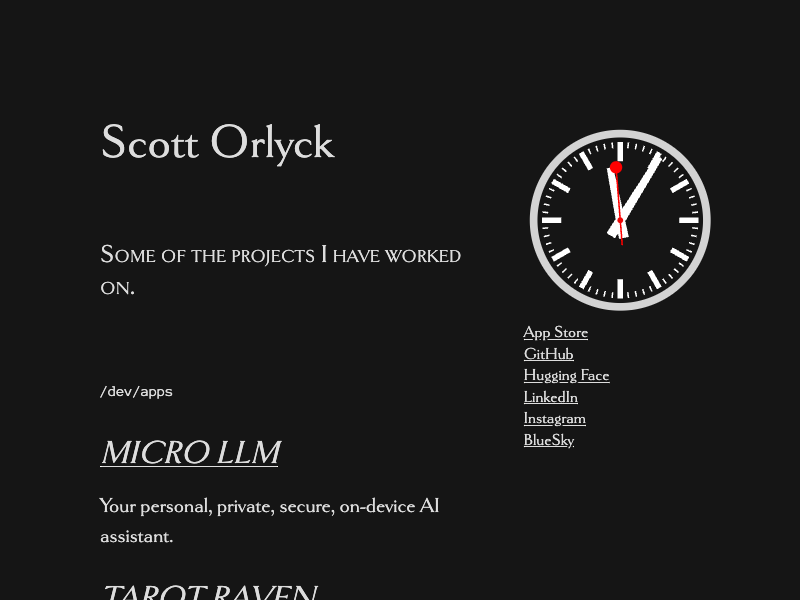
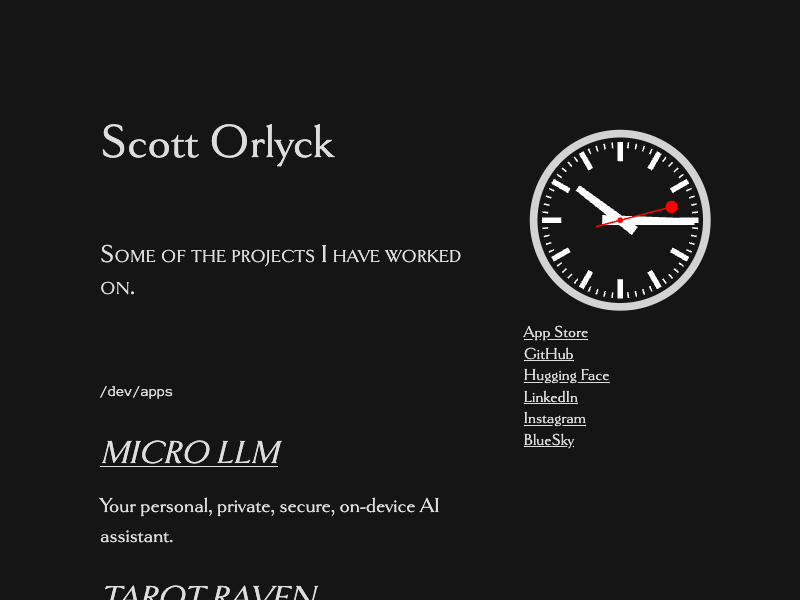
try to fix ssr

Changed region(s): [[0.7188, 0.27, 0.875, 0.42]]

diff --git a/docs/index.html b/docs/index.html
@@ -1,12 +1,11 @@
 <!DOCTYPE html><html lang="en"><head>
         <meta name="viewport" content="width=device-width,initial-scale=1">
         <meta charset="utf-8">
-      
+      <script type="module" crossorigin="" src="/assets/entry-DOY9Dm_Q.js"></script>
       <link rel="modulepreload" crossorigin="" href="/assets/vendor-CE8GFQpL.js">
-      <link rel="modulepreload" crossorigin="" href="/assets/clock-CrR0Dlin.js">
       <link rel="stylesheet" crossorigin="" href="/assets/index-g4Ej_i3O.css">
     <link rel="icon" type="image/x-icon" href="https://raw.githubusercontent.com/scottorly/scottorly.github.io/main/fav.png"><meta name="Description" content="Scott Orlyck's website."><meta name="twitter:title" content="Scott Orlyck"><meta name="twitter:description" content="Scott Orlyck's website."><meta name="twitter:image" content="https://raw.githubusercontent.com/scottorly/scottorly.github.io/main/thumbnail.png"><meta name="twitter:card" content="summary_large_image"><meta name="twitter:site" content="https://scottorly.github.io"><meta name="twitter:creator" content="@orlyck"><meta property="og:url" content="https://scottorly.github.io"><meta property="og:title" content="Scott Orlyck"><meta property="og:description" content="Scott Orlyck's website."><meta property="og:image" content="https://raw.githubusercontent.com/scottorly/scottorly.github.io/main/thumbnail.png"><meta property="og:image:secure" content="https://raw.githubusercontent.com/scottorly/scottorly.github.io/main/thumbnail.png"><meta name="google-site-verification" content="lUY1nvzQq0C_4-rrW4zS6qy_ib3HK3MyfS-0Jpf_cvo"><script async="true" defer="true" data-domain="scottorly.github.io" src="https://plausible.io/js/plausible.js"></script></head>
     <body>
     
 
-<article><section><p><label for="links" class="margin-toggle">⊕</label><input type="checkbox" id="links" class="margin-toggle"><span class="marginnote"><svg width="240" height="240" viewBox="50 50 500 500" style="max-width:100%;height:auto;"><g transform="translate(300,300)"><circle id="face" r="225" stroke-width="20" fill="none" stroke="lightgray"></circle><g id="tick-major" transform="rotate(0)"><line y1="-203" y2="-153" stroke-width="14"></line></g><g id="tick-major" transform="rotate(30)"><line y1="-203" y2="-153" stroke-width="14"></line></g><g id="tick-major" transform="rotate(60)"><line y1="-203" y2="-153" stroke-width="14"></line></g><g id="tick-major" transform="rotate(90)"><line y1="-203" y2="-153" stroke-width="14"></line></g><g id="tick-major" transform="rotate(120)"><line y1="-203" y2="-153" stroke-width="14"></line></g><g id="tick-major" transform="rotate(150)"><line y1="-203" y2="-153" stroke-width="14"></line></g><g id="tick-major" transform="rotate(180)"><line y1="-203" y2="-153" stroke-width="14"></line></g><g id="tick-major" transform="rotate(210)"><line y1="-203" y2="-153" stroke-width="14"></line></g><g id="tick-major" transform="rotate(240)"><line y1="-203" y2="-153" stroke-width="14"></line></g><g id="tick-major" transform="rotate(270)"><line y1="-203" y2="-153" stroke-width="14"></line></g><g id="tick-major" transform="rotate(300)"><line y1="-203" y2="-153" stroke-width="14"></line></g><g id="tick-major" transform="rotate(330)"><line y1="-203" y2="-153" stroke-width="14"></line></g><g id="tick-minor" transform="rotate(6)"><line y1="-203" y2="-188" stroke-width="4"></line></g><g id="tick-minor" transform="rotate(12)"><line y1="-203" y2="-188" stroke-width="4"></line></g><g id="tick-minor" transform="rotate(18)"><line y1="-203" y2="-188" stroke-width="4"></line></g><g id="tick-minor" transform="rotate(24)"><line y1="-203" y2="-188" stroke-width="4"></line></g><g id="tick-minor" transform="rotate(36)"><line y1="-203" y2="-188" stroke-width="4"></line></g><g id="tick-minor" transform="rotate(42)"><line y1="-203" y2="-188" stroke-width="4"></line></g><g id="tick-minor" transform="rotate(48)"><line y1="-203" y2="-188" stroke-width="4"></line></g><g id="tick-minor" transform="rotate(54)"><line y1="-203" y2="-188" stroke-width="4"></line></g><g id="tick-minor" transform="rotate(66)"><line y1="-203" y2="-188" stroke-width="4"></line></g><g id="tick-minor" transform="rotate(72)"><line y1="-203" y2="-188" stroke-width="4"></line></g><g id="tick-minor" transform="rotate(78)"><line y1="-203" y2="-188" stroke-width="4"></line></g><g id="tick-minor" transform="rotate(84)"><line y1="-203" y2="-188" stroke-width="4"></line></g><g id="tick-minor" transform="rotate(96)"><line y1="-203" y2="-188" stroke-width="4"></line></g><g id="tick-minor" transform="rotate(102)"><line y1="-203" y2="-188" stroke-width="4"></line></g><g id="tick-minor" transform="rotate(108)"><line y1="-203" y2="-188" stroke-width="4"></line></g><g id="tick-minor" transform="rotate(114)"><line y1="-203" y2="-188" stroke-width="4"></line></g><g id="tick-minor" transform="rotate(126)"><line y1="-203" y2="-188" stroke-width="4"></line></g><g id="tick-minor" transform="rotate(132)"><line y1="-203" y2="-188" stroke-width="4"></line></g><g id="tick-minor" transform="rotate(138)"><line y1="-203" y2="-188" stroke-width="4"></line></g><g id="tick-minor" transform="rotate(144)"><line y1="-203" y2="-188" stroke-width="4"></line></g><g id="tick-minor" transform="rotate(156)"><line y1="-203" y2="-188" stroke-width="4"></line></g><g id="tick-minor" transform="rotate(162)"><line y1="-203" y2="-188" stroke-width="4"></line></g><g id="tick-minor" transform="rotate(168)"><line y1="-203" y2="-188" stroke-width="4"></line></g><g id="tick-minor" transform="rotate(174)"><line y1="-203" y2="-188" stroke-width="4"></line></g><g id="tick-minor" transform="rotate(186)"><line y1="-203" y2="-188" stroke-width="4"></line></g><g id="tick-minor" transform="rotate(192)"><line y1="-203" y2="-188" stroke-width="4"></line></g><g id="tick-minor" transform="rotate(198)"><line y1="-203" y2="-188" stroke-width="4"></line></g><g id="tick-minor" transform="rotate(204)"><line y1="-203" y2="-188" stroke-width="4"></line></g><g id="tick-minor" transform="rotate(216)"><line y1="-203" y2="-188" stroke-width="4"></line></g><g id="tick-minor" transform="rotate(222)"><line y1="-203" y2="-188" stroke-width="4"></line></g><g id="tick-minor" transform="rotate(228)"><line y1="-203" y2="-188" stroke-width="4"></line></g><g id="tick-minor" transform="rotate(234)"><line y1="-203" y2="-188" stroke-width="4"></line></g><g id="tick-minor" transform="rotate(246)"><line y1="-203" y2="-188" stroke-width="4"></line></g><g id="tick-minor" transform="rotate(252)"><line y1="-203" y2="-188" stroke-width="4"></line></g><g id="tick-minor" transform="rotate(258)"><line y1="-203" y2="-188" stroke-width="4"></line></g><g id="tick-minor" transform="rotate(264)"><line y1="-203" y2="-188" stroke-width="4"></line></g><g id="tick-minor" transform="rotate(276)"><line y1="-203" y2="-188" stroke-width="4"></line></g><g id="tick-minor" transform="rotate(282)"><line y1="-203" y2="-188" stroke-width="4"></line></g><g id="tick-minor" transform="rotate(288)"><line y1="-203" y2="-188" stroke-width="4"></line></g><g id="tick-minor" transform="rotate(294)"><line y1="-203" y2="-188" stroke-width="4"></line></g><g id="tick-minor" transform="rotate(306)"><line y1="-203" y2="-188" stroke-width="4"></line></g><g id="tick-minor" transform="rotate(312)"><line y1="-203" y2="-188" stroke-width="4"></line></g><g id="tick-minor" transform="rotate(318)"><line y1="-203" y2="-188" stroke-width="4"></line></g><g id="tick-minor" transform="rotate(324)"><line y1="-203" y2="-188" stroke-width="4"></line></g><g id="tick-minor" transform="rotate(336)"><line y1="-203" y2="-188" stroke-width="4"></line></g><g id="tick-minor" transform="rotate(342)"><line y1="-203" y2="-188" stroke-width="4"></line></g><g id="tick-minor" transform="rotate(348)"><line y1="-203" y2="-188" stroke-width="4"></line></g><g id="tick-minor" transform="rotate(354)"><line y1="-203" y2="-188" stroke-width="4"></line></g><g id="hand-hours" transform="rotate(-11.318167091034374)"><path id="hours-path" d="M-13,47h26l-3,-186h-17z"></path></g><g id="hand-minutes" transform="rotate(30.399160509576202) scale(0.9999999999999999,0.9999999999999999)"><path id="minutes-path" d="M-13,47h26l-3,-240h-17z"></path></g><g id="hand-seconds" transform="rotate(-4.439357317553117)"><line y1="65" y2="-138" stroke="red" stroke-width="4"></line><circle cy="-138" r="16" fill="red"></circle><circle r="7.5" fill="red"></circle><circle r="4.5" fill="none" stroke="brown"></circle></g></g></svg> <br><a target="_blank" rel="noreferrer noopener" href="https://apps.apple.com/us/developer/scott-orlyck/id1082162815">App Store</a> <br><a target="_blank" rel="noreferrer noopener" href="https://github.com/scottorly">GitHub</a> <br><a target="_blank" rel="noreferrer noopener" href="https://huggingface.co/scottto">Hugging Face</a> <br><a target="_blank" rel="noreferrer noopener" href="https://linkedin.com/in/scottorlyck">LinkedIn</a> <br><a target="_blank" rel="noreferrer noopener" href="https://www.instagram.com/scottorlyck/">Instagram</a> <br><a target="_blank" rel="noreferrer noopener" href="https://bsky.app/profile/scottorly.github.io">BlueSky</a> <br></span><h1 class="title">Scott Orlyck</h1></p></section><section><p><span class="newthought">Some of the projects I have worked on.</span></p></section><section><p><code>/dev/apps</code></p><h2><a target="_blank" rel="noreferrer noopener" href="https://apps.apple.com/us/app/micro-llm/id6468129438">MICRO LLM</a></h2><p>Your personal, private, secure, on-device AI assistant.</p><h2><a target="_blank" rel="noreferrer noopener" href="https://apps.apple.com/us/app/tarot-arcana/id1539747669?platform=iphone">TAROT RAVEN</a></h2><p>Tarot card readings from state-of-the-art on-device artificial intelligence.</p><h2><a target="_blank" rel="noreferrer noopener" href="https://montecarloxo.com">MONTE CARLO XO</a></h2><p>AR Tic-tac-toe played against a monte carlo method AI.</p><h2><a target="_blank" rel="noreferrer noopener" href="https://scottorly.github.io/coviz19">COVIZ-19</a></h2></section><section><p><code>/dev/words</code></p><h2><a href="https://scottorly.github.io/taskmaster">TASKMASTER</a></h2><p>Swift Concurrency &amp; UIKit.</p><h2><a href="https://scottorly.github.io/drive2combine">DRIVE II: COMBINE</a></h2><p>Driving Combine.</p><h2><a href="https://scottorly.github.io/drive">DRIVE</a></h2><p>RxSwift UI Patterns.</p></section><section><p><code>/dev/work</code></p><h2><a target="_blank" rel="noreferrer noopener" href="https://apps.apple.com/us/app/figs/id1503374453?platform=iphone">FIGS®</a></h2><h2><a target="_blank" rel="noreferrer noopener" href="https://apps.apple.com/us/app/weber-connect/id1480540695?platform=iphone">WEBER CONNECT</a></h2><h2><a target="_blank" rel="noreferrer noopener" href="https://appadvice.com/app/hallmark-shoebox/1210937098">HALLMARK SHOEBOX</a></h2><h2><a target="_blank" rel="noreferrer noopener" href="https://download.cnet.com/Hallmark-Digital-Postage/3000-2094_4-78463978.html">HALLMARK DIGITAL POSTAGE</a></h2><h2><a target="_blank" rel="noreferrer noopener" href="https://valarm.net">VALARM</a></h2><h2><a target="_blank" rel="noreferrer noopener" href="https://vimeo.com/85466100">REALM BLAZER</a></h2></section></article></body></html>
+<article><section><p><label for="links" class="margin-toggle">⊕</label><input type="checkbox" id="links" class="margin-toggle"><span class="marginnote"><svg width="240" height="240" viewBox="50 50 500 500" style="max-width:100%;height:auto;"><g transform="translate(300,300)"><circle id="face" r="225" stroke-width="20" fill="none" stroke="lightgray"></circle><g id="tick-major" transform="rotate(0)"><line y1="-203" y2="-153" stroke-width="14"></line></g><g id="tick-major" transform="rotate(30)"><line y1="-203" y2="-153" stroke-width="14"></line></g><g id="tick-major" transform="rotate(60)"><line y1="-203" y2="-153" stroke-width="14"></line></g><g id="tick-major" transform="rotate(90)"><line y1="-203" y2="-153" stroke-width="14"></line></g><g id="tick-major" transform="rotate(120)"><line y1="-203" y2="-153" stroke-width="14"></line></g><g id="tick-major" transform="rotate(150)"><line y1="-203" y2="-153" stroke-width="14"></line></g><g id="tick-major" transform="rotate(180)"><line y1="-203" y2="-153" stroke-width="14"></line></g><g id="tick-major" transform="rotate(210)"><line y1="-203" y2="-153" stroke-width="14"></line></g><g id="tick-major" transform="rotate(240)"><line y1="-203" y2="-153" stroke-width="14"></line></g><g id="tick-major" transform="rotate(270)"><line y1="-203" y2="-153" stroke-width="14"></line></g><g id="tick-major" transform="rotate(300)"><line y1="-203" y2="-153" stroke-width="14"></line></g><g id="tick-major" transform="rotate(330)"><line y1="-203" y2="-153" stroke-width="14"></line></g><g id="tick-minor" transform="rotate(6)"><line y1="-203" y2="-188" stroke-width="4"></line></g><g id="tick-minor" transform="rotate(12)"><line y1="-203" y2="-188" stroke-width="4"></line></g><g id="tick-minor" transform="rotate(18)"><line y1="-203" y2="-188" stroke-width="4"></line></g><g id="tick-minor" transform="rotate(24)"><line y1="-203" y2="-188" stroke-width="4"></line></g><g id="tick-minor" transform="rotate(36)"><line y1="-203" y2="-188" stroke-width="4"></line></g><g id="tick-minor" transform="rotate(42)"><line y1="-203" y2="-188" stroke-width="4"></line></g><g id="tick-minor" transform="rotate(48)"><line y1="-203" y2="-188" stroke-width="4"></line></g><g id="tick-minor" transform="rotate(54)"><line y1="-203" y2="-188" stroke-width="4"></line></g><g id="tick-minor" transform="rotate(66)"><line y1="-203" y2="-188" stroke-width="4"></line></g><g id="tick-minor" transform="rotate(72)"><line y1="-203" y2="-188" stroke-width="4"></line></g><g id="tick-minor" transform="rotate(78)"><line y1="-203" y2="-188" stroke-width="4"></line></g><g id="tick-minor" transform="rotate(84)"><line y1="-203" y2="-188" stroke-width="4"></line></g><g id="tick-minor" transform="rotate(96)"><line y1="-203" y2="-188" stroke-width="4"></line></g><g id="tick-minor" transform="rotate(102)"><line y1="-203" y2="-188" stroke-width="4"></line></g><g id="tick-minor" transform="rotate(108)"><line y1="-203" y2="-188" stroke-width="4"></line></g><g id="tick-minor" transform="rotate(114)"><line y1="-203" y2="-188" stroke-width="4"></line></g><g id="tick-minor" transform="rotate(126)"><line y1="-203" y2="-188" stroke-width="4"></line></g><g id="tick-minor" transform="rotate(132)"><line y1="-203" y2="-188" stroke-width="4"></line></g><g id="tick-minor" transform="rotate(138)"><line y1="-203" y2="-188" stroke-width="4"></line></g><g id="tick-minor" transform="rotate(144)"><line y1="-203" y2="-188" stroke-width="4"></line></g><g id="tick-minor" transform="rotate(156)"><line y1="-203" y2="-188" stroke-width="4"></line></g><g id="tick-minor" transform="rotate(162)"><line y1="-203" y2="-188" stroke-width="4"></line></g><g id="tick-minor" transform="rotate(168)"><line y1="-203" y2="-188" stroke-width="4"></line></g><g id="tick-minor" transform="rotate(174)"><line y1="-203" y2="-188" stroke-width="4"></line></g><g id="tick-minor" transform="rotate(186)"><line y1="-203" y2="-188" stroke-width="4"></line></g><g id="tick-minor" transform="rotate(192)"><line y1="-203" y2="-188" stroke-width="4"></line></g><g id="tick-minor" transform="rotate(198)"><line y1="-203" y2="-188" stroke-width="4"></line></g><g id="tick-minor" transform="rotate(204)"><line y1="-203" y2="-188" stroke-width="4"></line></g><g id="tick-minor" transform="rotate(216)"><line y1="-203" y2="-188" stroke-width="4"></line></g><g id="tick-minor" transform="rotate(222)"><line y1="-203" y2="-188" stroke-width="4"></line></g><g id="tick-minor" transform="rotate(228)"><line y1="-203" y2="-188" stroke-width="4"></line></g><g id="tick-minor" transform="rotate(234)"><line y1="-203" y2="-188" stroke-width="4"></line></g><g id="tick-minor" transform="rotate(246)"><line y1="-203" y2="-188" stroke-width="4"></line></g><g id="tick-minor" transform="rotate(252)"><line y1="-203" y2="-188" stroke-width="4"></line></g><g id="tick-minor" transform="rotate(258)"><line y1="-203" y2="-188" stroke-width="4"></line></g><g id="tick-minor" transform="rotate(264)"><line y1="-203" y2="-188" stroke-width="4"></line></g><g id="tick-minor" transform="rotate(276)"><line y1="-203" y2="-188" stroke-width="4"></line></g><g id="tick-minor" transform="rotate(282)"><line y1="-203" y2="-188" stroke-width="4"></line></g><g id="tick-minor" transform="rotate(288)"><line y1="-203" y2="-188" stroke-width="4"></line></g><g id="tick-minor" transform="rotate(294)"><line y1="-203" y2="-188" stroke-width="4"></line></g><g id="tick-minor" transform="rotate(306)"><line y1="-203" y2="-188" stroke-width="4"></line></g><g id="tick-minor" transform="rotate(312)"><line y1="-203" y2="-188" stroke-width="4"></line></g><g id="tick-minor" transform="rotate(318)"><line y1="-203" y2="-188" stroke-width="4"></line></g><g id="tick-minor" transform="rotate(324)"><line y1="-203" y2="-188" stroke-width="4"></line></g><g id="tick-minor" transform="rotate(336)"><line y1="-203" y2="-188" stroke-width="4"></line></g><g id="tick-minor" transform="rotate(342)"><line y1="-203" y2="-188" stroke-width="4"></line></g><g id="tick-minor" transform="rotate(348)"><line y1="-203" y2="-188" stroke-width="4"></line></g><g id="tick-minor" transform="rotate(354)"><line y1="-203" y2="-188" stroke-width="4"></line></g><g id="hand-hours" transform="rotate(-51.24143771736742)"><path id="hours-path" d="M-13,47h26l-3,-186h-17z"></path></g><g id="hand-minutes" transform="rotate(86.98998976381881) scale(0.9999999999999999,0.9999999999999999)"><path id="minutes-path" d="M-13,47h26l-3,-240h-17z"></path></g><g id="hand-seconds" transform="rotate(72.22716266856467)"><line y1="65" y2="-138" stroke="red" stroke-width="4"></line><circle cy="-138" r="16" fill="red"></circle><circle r="7.5" fill="red"></circle><circle r="4.5" fill="none" stroke="brown"></circle></g></g></svg> <br><a target="_blank" rel="noreferrer noopener" href="https://apps.apple.com/us/developer/scott-orlyck/id1082162815">App Store</a> <br><a target="_blank" rel="noreferrer noopener" href="https://github.com/scottorly">GitHub</a> <br><a target="_blank" rel="noreferrer noopener" href="https://huggingface.co/scottto">Hugging Face</a> <br><a target="_blank" rel="noreferrer noopener" href="https://linkedin.com/in/scottorlyck">LinkedIn</a> <br><a target="_blank" rel="noreferrer noopener" href="https://www.instagram.com/scottorlyck/">Instagram</a> <br><a target="_blank" rel="noreferrer noopener" href="https://bsky.app/profile/scottorly.github.io">BlueSky</a> <br></span><h1 class="title">Scott Orlyck</h1></p></section><section><p><span class="newthought">Some of the projects I have worked on.</span></p></section><section><p><code>/dev/apps</code></p><h2><a target="_blank" rel="noreferrer noopener" href="https://apps.apple.com/us/app/micro-llm/id6468129438">MICRO LLM</a></h2><p>Your personal, private, secure, on-device AI assistant.</p><h2><a target="_blank" rel="noreferrer noopener" href="https://apps.apple.com/us/app/tarot-arcana/id1539747669?platform=iphone">TAROT RAVEN</a></h2><p>Tarot card readings from state-of-the-art on-device artificial intelligence.</p><h2><a target="_blank" rel="noreferrer noopener" href="https://montecarloxo.com">MONTE CARLO XO</a></h2><p>AR Tic-tac-toe played against a monte carlo method AI.</p><h2><a target="_blank" rel="noreferrer noopener" href="https://scottorly.github.io/coviz19">COVIZ-19</a></h2></section><section><p><code>/dev/words</code></p><h2><a href="https://scottorly.github.io/taskmaster">TASKMASTER</a></h2><p>Swift Concurrency &amp; UIKit.</p><h2><a href="https://scottorly.github.io/drive2combine">DRIVE II: COMBINE</a></h2><p>Driving Combine.</p><h2><a href="https://scottorly.github.io/drive">DRIVE</a></h2><p>RxSwift UI Patterns.</p></section><section><p><code>/dev/work</code></p><h2><a target="_blank" rel="noreferrer noopener" href="https://apps.apple.com/us/app/figs/id1503374453?platform=iphone">FIGS®</a></h2><h2><a target="_blank" rel="noreferrer noopener" href="https://apps.apple.com/us/app/weber-connect/id1480540695?platform=iphone">WEBER CONNECT</a></h2><h2><a target="_blank" rel="noreferrer noopener" href="https://appadvice.com/app/hallmark-shoebox/1210937098">HALLMARK SHOEBOX</a></h2><h2><a target="_blank" rel="noreferrer noopener" href="https://download.cnet.com/Hallmark-Digital-Postage/3000-2094_4-78463978.html">HALLMARK DIGITAL POSTAGE</a></h2><h2><a target="_blank" rel="noreferrer noopener" href="https://valarm.net">VALARM</a></h2><h2><a target="_blank" rel="noreferrer noopener" href="https://vimeo.com/85466100">REALM BLAZER</a></h2></section></article></body></html>

diff --git a/docs/assets/index-L38FV_sy.js b/docs/assets/index-L38FV_sy.js
@@ -1,0 +1,1 @@
+import{h as t,f as a,r as u}from"./vendor-CE8GFQpL.js";import"./entry-DOY9Dm_Q.js";(function(){const l=document.createElement("link").relList;if(l&&l.supports&&l.supports("modulepreload"))return;for(const n of document.querySelectorAll('link[rel="modulepreload"]'))p(n);new MutationObserver(n=>{for(const i of n)if(i.type==="childList")for(const s of i.addedNodes)s.tagName==="LINK"&&s.rel==="modulepreload"&&p(s)}).observe(document,{childList:!0,subtree:!0});function h(n){const i={};return n.integrity&&(i.integrity=n.integrity),n.referrerPolicy&&(i.referrerPolicy=n.referrerPolicy),n.crossOrigin==="use-credentials"?i.credentials="include":n.crossOrigin==="anonymous"?i.credentials="omit":i.credentials="same-origin",i}function p(n){if(n.ep)return;n.ep=!0;const i=h(n);fetch(n.href,i)}})();const r={description:"Scott Orlyck's website.",title:"Scott Orlyck",image:"https://raw.githubusercontent.com/scottorly/scottorly.github.io/main/thumbnail.png",favicon:"https://raw.githubusercontent.com/scottorly/scottorly.github.io/main/fav.png",url:"https://scottorly.github.io",twitter:"@orlyck"},m=t(a,null,t("link",{rel:"icon",type:"image/x-icon",href:r.favicon}),t("meta",{name:"Description",content:r.description}),t("meta",{name:"twitter:title",content:r.title}),t("meta",{name:"twitter:description",content:r.description}),t("meta",{name:"twitter:image",content:r.image}),t("meta",{name:"twitter:card",content:"summary_large_image"}),t("meta",{name:"twitter:site",content:r.url}),t("meta",{name:"twitter:creator",content:r.twitter}),t("meta",{property:"og:url",content:r.url}),t("meta",{property:"og:title",content:r.title}),t("meta",{property:"og:description",content:r.description}),t("meta",{property:"og:image",content:r.image}),t("meta",{property:"og:image:secure",content:r.image}),t("meta",{name:"google-site-verification",content:"lUY1nvzQq0C_4-rrW4zS6qy_ib3HK3MyfS-0Jpf_cvo"})),d="subtitle",g="numeral",f="danger",y="epigraph",b="fullwidth",w="sidenote",k="marginnote",v="sans",A="newthought",O="title",L={subtitle:d,numeral:g,danger:f,epigraph:y,fullwidth:b,"no-tufte-underline":"no-tufte-underline","tufte-underline":"tufte-underline","hover-tufte-underline":"hover-tufte-underline",sidenote:w,marginnote:k,"sidenote-number":"sidenote-number","table-wrapper":"table-wrapper",sans:v,newthought:A,"margin-toggle":"margin-toggle","iframe-wrapper":"iframe-wrapper",title:O,"tick-major":"tick-major","tick-minor":"tick-minor","hands-minutes":"hands-minutes","hands-hours":"hands-hours","hours-path":"hours-path","minutes-path":"minutes-path"},I=()=>t(a,null,t("svg",{width:"240",height:"240",viewBox:"50 50 500 500",style:"max-width:100%;height:auto;"},t("g",{transform:"translate(300,300)"},t("circle",{id:"face",r:"225","stroke-width":"20",fill:"none",stroke:"lightgray"}),u(12).map(o=>t("g",{id:"tick-major",transform:`rotate(${o*30})`},t("line",{y1:"-203",y2:"-153","stroke-width":"14"}))),u(60).map(o=>o%5?t("g",{id:"tick-minor",transform:`rotate(${o*6})`},t("line",{y1:"-203",y2:"-188","stroke-width":"4"})):t(a,null)),t("g",{id:"hand-hours"},t("path",{id:"hours-path",d:"M-13,47h26l-3,-186h-17z"})),t("g",{id:"hand-minutes"},t("path",{id:"minutes-path",d:"M-13,47h26l-3,-240h-17z"})),t("g",{id:"hand-seconds"},t("line",{y1:"65",y2:"-138",stroke:"red","stroke-width":"4"}),t("circle",{cy:"-138",r:"16",fill:"red"}),t("circle",{r:"7.5",fill:"red"}),t("circle",{r:"4.5",fill:"none",stroke:"brown"}))))),e=({children:o,attributes:{href:l}})=>t("a",{target:"_blank",rel:"noreferrer noopener",href:l},o),c=({children:o,attributes:{href:l}})=>t("a",{href:l},o),S=({children:o,attributes:{id:l}})=>t(a,null,t("label",{for:l,className:"margin-toggle"},"⊕"),t("input",{type:"checkbox",id:l,className:"margin-toggle"}),t("span",{className:"marginnote"},o)),R=t("article",null,t("section",null,t("p",null,t(S,{id:"links"},t(I,null)," ",t("br",null),t(e,{href:"https://apps.apple.com/us/developer/scott-orlyck/id1082162815"},"App Store")," ",t("br",null),t(e,{href:"https://github.com/scottorly"},"GitHub")," ",t("br",null),t(e,{href:"https://huggingface.co/scottto"},"Hugging Face")," ",t("br",null),t(e,{href:"https://linkedin.com/in/scottorlyck"},"LinkedIn")," ",t("br",null),t(e,{href:"https://www.instagram.com/scottorlyck/"},"Instagram")," ",t("br",null),t(e,{href:"https://bsky.app/profile/scottorly.github.io"},"BlueSky")," ",t("br",null)),t("h1",{className:L.title},"Scott Orlyck"))),t("section",null,t("p",null,t("span",{className:"newthought"},"Some of the projects I have worked on."))),t("section",null,t("p",null,t("code",null,"/dev/apps")),t("h2",null,t(e,{href:"https://apps.apple.com/us/app/micro-llm/id6468129438"},"MICRO LLM")),t("p",null,"Your personal, private, secure, on-device AI assistant."),t("h2",null,t(e,{href:"https://apps.apple.com/us/app/tarot-arcana/id1539747669?platform=iphone"},"TAROT RAVEN")),t("p",null,"Tarot card readings from state-of-the-art on-device artificial intelligence."),t("h2",null,t(e,{href:"https://montecarloxo.com"},"MONTE CARLO XO")),t("p",null,"AR Tic-tac-toe played against a monte carlo method AI."),t("h2",null,t(e,{href:"https://scottorly.github.io/coviz19"},"COVIZ-19"))),t("section",null,t("p",null,t("code",null,"/dev/words")),t("h2",null,t(c,{href:"https://scottorly.github.io/taskmaster"},"TASKMASTER")),t("p",null,"Swift Concurrency & UIKit."),t("h2",null,t(c,{href:"https://scottorly.github.io/drive2combine"},"DRIVE II: COMBINE")),t("p",null,"Driving Combine."),t("h2",null,t(c,{href:"https://scottorly.github.io/drive"},"DRIVE")),t("p",null,"RxSwift UI Patterns.")),t("section",null,t("p",null,t("code",null,"/dev/work")),t("h2",null,t(e,{href:"https://apps.apple.com/us/app/figs/id1503374453?platform=iphone"},"FIGS®")),t("h2",null,t(e,{href:"https://apps.apple.com/us/app/weber-connect/id1480540695?platform=iphone"},"WEBER CONNECT")),t("h2",null,t(e,{href:"https://appadvice.com/app/hallmark-shoebox/1210937098"},"HALLMARK SHOEBOX")),t("h2",null,t(e,{href:"https://download.cnet.com/Hallmark-Digital-Postage/3000-2094_4-78463978.html"},"HALLMARK DIGITAL POSTAGE")),t("h2",null,t(e,{href:"https://valarm.net"},"VALARM")),t("h2",null,t(e,{href:"https://vimeo.com/85466100"},"REALM BLAZER"))));document.head.appendChild(m);document.head.appendChild(t("script",{async:!0,defer:!0,"data-domain":"scottorly.github.io",src:"https://plausible.io/js/plausible.js"}));document.body.appendChild(R);

diff --git a/src/clock/index.jsx b/src/clock/index.jsx
@@ -1,14 +1,4 @@
-import { select } from 'd3-selection'
-import { timeDay, timeHour, timeMinute } from 'd3-time'
-import 'd3-transition'
 import { range } from 'd3-array'
-
-const updateTime = () => {
-    const now = new Date()
-    select(`#hand-hours`).transition().attr('transform', `rotate(${(now - timeDay(now)) / 864e5 * 720})`)
-    select(`#hand-minutes`).transition().attr('transform', `rotate(${(now - timeHour(now)) / 36e5 * 360})`)
-    select(`#hand-seconds`).transition().attr('transform', `rotate(${(now - timeMinute(now)) / 6e4 * 360})`)
-}
 
 const Clock = () => (<>
     <svg width="240" height="240" viewBox="50 50 500 500" style="max-width:100%;height:auto;">
@@ -44,7 +34,4 @@ const Clock = () => (<>
     </svg>
 </>)
 
-window.addEventListener('load', () => {
-    setInterval(updateTime, 60);
-})
 export default Clock

diff --git a/src/entry-client.js b/src/entry-client.js
@@ -1,0 +1,12 @@
+import { select } from 'd3-selection'
+import { timeDay, timeHour, timeMinute } from 'd3-time'
+import 'd3-transition'
+
+const updateTime = () => {
+    const now = new Date()
+    select(`#hand-hours`).transition().attr('transform', `rotate(${(now - timeDay(now)) / 864e5 * 720})`)
+    select(`#hand-minutes`).transition().attr('transform', `rotate(${(now - timeHour(now)) / 36e5 * 360})`)
+    select(`#hand-seconds`).transition().attr('transform', `rotate(${(now - timeMinute(now)) / 6e4 * 360})`)
+}
+
+(() => setInterval(updateTime, 60))()

diff --git a/docs/assets/entry-DOY9Dm_Q.js b/docs/assets/entry-DOY9Dm_Q.js
@@ -1,0 +1,1 @@
+import{s as a,t as e,a as n,b as r}from"./vendor-CE8GFQpL.js";const s=()=>{const t=new Date;a("#hand-hours").transition().attr("transform",`rotate(${(t-e(t))/864e5*720})`),a("#hand-minutes").transition().attr("transform",`rotate(${(t-n(t))/36e5*360})`),a("#hand-seconds").transition().attr("transform",`rotate(${(t-r(t))/6e4*360})`)};setInterval(s,60);

diff --git a/vite.config.js b/vite.config.js
@@ -14,8 +14,8 @@ export default {
           if (id.includes('node_modules')) {
             return 'vendor';
           }
-          if (id.includes('clock')) {
-            return 'clock';
+          if (id.includes('entry')) {
+            return 'entry';
           }
         }
       }

diff --git a/index.html b/index.html
@@ -5,6 +5,7 @@
         <meta charset="utf-8" />
     </head>
     <body></body>
-    <script type="module" src="/src/index.jsx"></script>
+    <script id="remove" type="module" src="/src/index.jsx"></script>
+    <script type="module" src="/src/entry-client.js"></script>
     
 </html>
